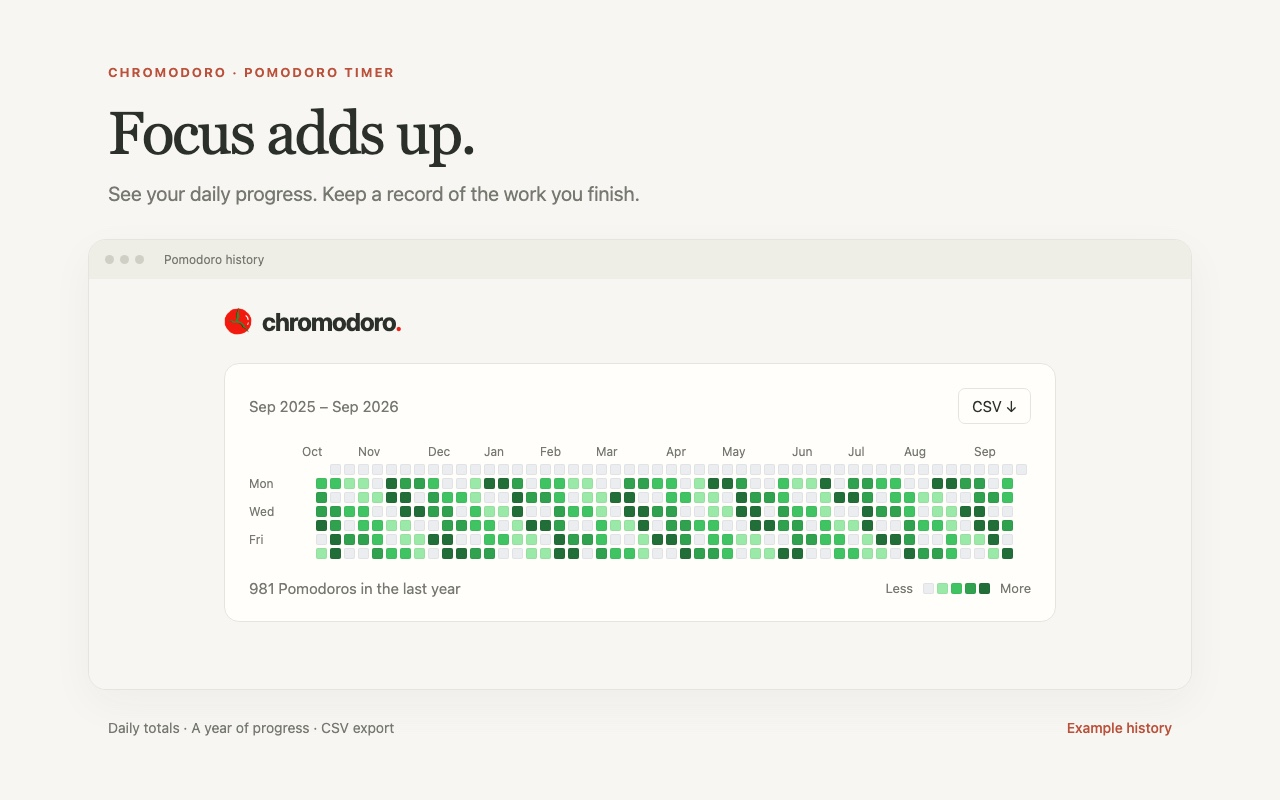
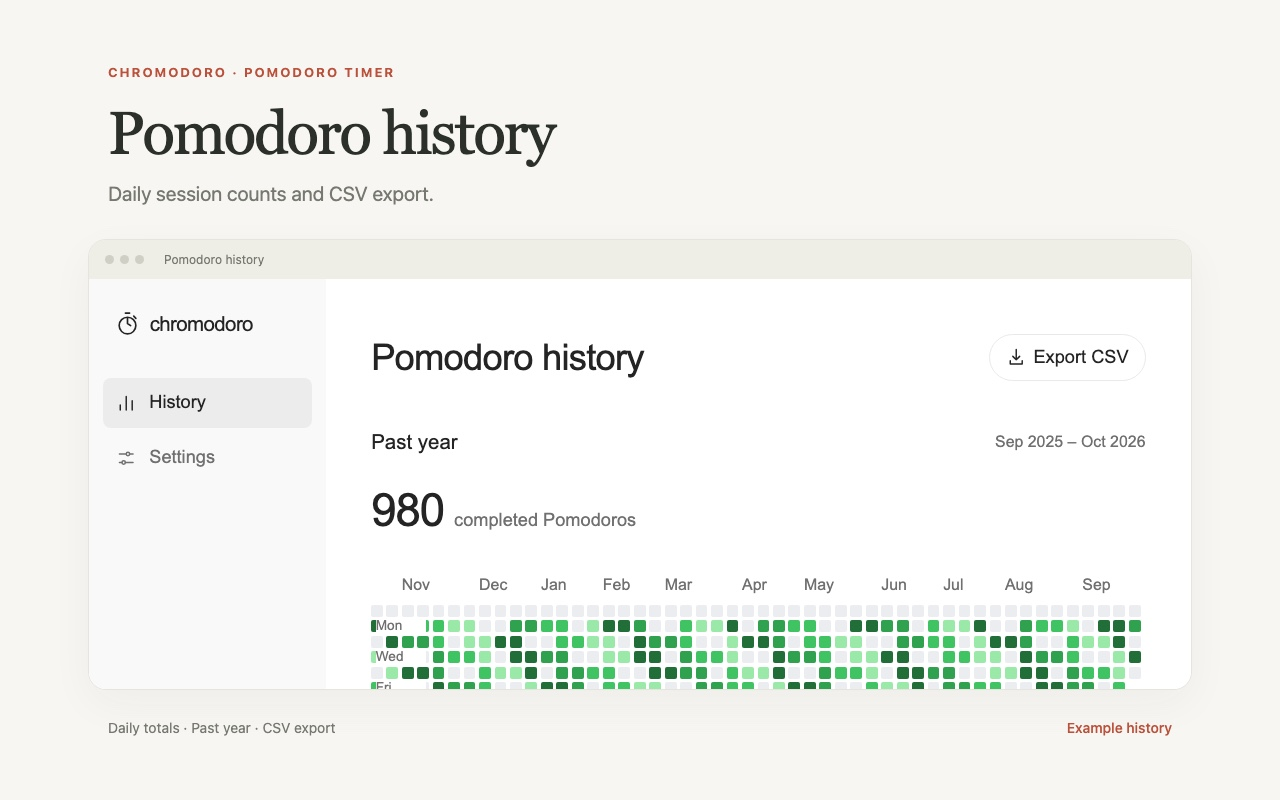
updated the pages to be more aesthetic.

diff --git a/styles.css b/styles.css
@@ -1,39 +1,129 @@
-:root{color-scheme:light;--bg:#f7f6f2;--paper:#fffefa;--text:#2c302b;--muted:#76796f;--line:#e6e5dd;--accent:#f21f15;--sq:11px;--l0:#ebedf0;--l1:#9be9a8;--l2:#40c463;--l3:#30a14e;--l4:#216e39;font-family:Inter,-apple-system,BlinkMacSystemFont,"Segoe UI",sans-serif;font-size:16px}
-*{box-sizing:border-box}body{margin:0;background:var(--bg);color:var(--text)}button,input{font:inherit}button{cursor:pointer}button:disabled{cursor:default;opacity:.48}button,input{outline-offset:4px}button:focus-visible,input:focus-visible{outline:2px solid var(--accent)}
-main{max-width:880px;margin:0 auto;padding:0 24px 48px}
-.header{display:flex;align-items:center;gap:10px;height:84px}
-.brand{font-weight:730;font-size:25px;letter-spacing:-1px}.brand-dot{color:var(--accent)}
-.card{background:var(--paper);border:1px solid var(--line);border-radius:15px;padding:24px;margin-bottom:16px}
-.card-top{display:flex;justify-content:space-between;align-items:center;gap:12px}
-.muted{color:var(--muted);font-size:15px}
-.small-button{border:1px solid var(--line);border-radius:7px;background:var(--paper);padding:8px 13px;font-size:15px;color:var(--text)}.small-button:hover{background:#f0f0e7}
-.heat-scroll{overflow-x:auto;overflow-y:hidden;margin-top:20px;padding-bottom:6px}
-.heat-months,.heat-grid{display:grid;grid-template-columns:36px repeat(53,var(--sq));gap:3px;width:max-content}
-.heat-months{margin-bottom:5px}
-.heat-months span{grid-row:1;font-size:12px;color:var(--muted);white-space:nowrap}
-.heat-grid{grid-template-rows:repeat(7,var(--sq))}
-.heat-row{display:contents}
-.heat-day{grid-column:1;position:sticky;left:0;z-index:1;background:var(--paper);padding-right:6px;font-size:12px;line-height:1;color:var(--muted);align-self:center}
-.sq{width:var(--sq);height:var(--sq);border-radius:2px;background:var(--l0);box-shadow:inset 0 0 0 1px #2c302b0d}
-.sq.l1{background:var(--l1)}.sq.l2{background:var(--l2)}.sq.l3{background:var(--l3)}.sq.l4{background:var(--l4)}
-.sq.pre{background:none;box-shadow:none}
-.sq[role]:hover{box-shadow:inset 0 0 0 1px #2c302b40}
-.sq:focus-visible{outline:2px solid var(--accent);outline-offset:2px}
-.heat-foot{display:flex;justify-content:space-between;align-items:center;gap:12px;margin-top:14px}
-.heat-legend{display:flex;align-items:center;gap:3px;font-size:13px;color:var(--muted)}
-.heat-legend i:first-of-type{margin-left:7px}.heat-legend i:last-of-type{margin-right:7px}
-.sync-card p{line-height:1.55;margin:12px 0 0}.sync-card strong{font-size:16px;font-weight:600}
-.settings-grid{display:grid;grid-template-columns:repeat(4,1fr);gap:12px}
-.settings-grid>label{font-size:15px;color:var(--muted)}
-.input-wrap{display:flex;align-items:center;border:1px solid var(--line);border-radius:7px;margin-top:9px;padding-right:9px;gap:4px}
-.input-wrap input{width:100%;min-width:0;background:transparent;border:0;padding:11px 0 11px 12px;color:var(--text);font-size:17px}
-.input-wrap>span{font-size:14px;color:var(--muted)}
-.settings-bottom{display:flex;align-items:center;justify-content:space-between;margin-top:20px;gap:14px}
-.settings-actions{display:flex;align-items:center;gap:12px}
-.alert-label{display:flex;align-items:center;flex-wrap:wrap;gap:18px;font-size:15px;color:var(--muted)}
-.checkbox{display:flex;align-items:center;gap:8px;font-size:16px;color:var(--text)}.checkbox input{accent-color:var(--accent);width:17px;height:17px;margin:0}
-.save{background:#343d31;color:white;border-color:#343d31;padding:10px 18px}.save:hover{background:#4e5c48}
-.save-status{font-size:15px;color:#39745d}
-#error{position:fixed;bottom:20px;left:50%;transform:translateX(-50%);background:#852e21;color:white;padding:12px 20px;border-radius:8px;max-width:90vw;box-shadow:0 5px 25px #0002}
-@media(max-width:700px){main{padding:0 16px 32px}.card{padding:18px}.settings-grid{grid-template-columns:repeat(2,1fr);gap:16px}.settings-bottom{align-items:flex-start;flex-direction:column}}
-@media(max-width:460px){.heat-card{--sq:10px}}
+:root {
+  color-scheme: only light;
+  --bg: #fff;
+  --sidebar: #f9f9f9;
+  --text: #242424;
+  --muted: #707070;
+  --line: #e9e9e9;
+  --hover: #ececec;
+  --sq: 11px;
+  --l0: #ebedf0;
+  --l1: #9be9a8;
+  --l2: #40c463;
+  --l3: #30a14e;
+  --l4: #216e39;
+  font-family: Arial, Helvetica, sans-serif;
+  font-size: 18px;
+  line-height: 1.5;
+}
+* { box-sizing: border-box; }
+[hidden] { display: none !important; }
+body { margin: 0; background: var(--bg); color: var(--text); font-size: 17px; }
+button, input { font: inherit; }
+button, summary { cursor: pointer; }
+button:disabled { cursor: default; opacity: .48; }
+a { color: inherit; }
+button, input, a, summary { outline-offset: 4px; }
+:focus-visible { outline: 2px solid var(--text); outline-offset: 4px; }
+h1, h2, p { margin: 0; }
+h1 { font-size: 2.25rem; line-height: 1.2; font-weight: 500; letter-spacing: -.8px; }
+h2 { font-size: 1.125rem; font-weight: 500; }
+svg { width: 1.125rem; height: 1.125rem; flex-shrink: 0; }
+.muted { color: var(--muted); }
+.small { font-size: inherit; }
+.skip-link { position: absolute; top: 12px; left: 12px; z-index: 5; padding: 10px 16px; background: var(--bg); border-radius: 8px; transform: translateY(-180%); }
+.skip-link:focus { transform: none; }
+.app-shell { display: grid; grid-template-columns: 13rem minmax(0, 1fr); min-height: 100vh; min-height: 100svh; }
+.sidebar { position: sticky; top: 0; height: 100vh; height: 100svh; padding: 1.625rem .75rem; display: flex; flex-direction: column; gap: 2.125rem; background: var(--sidebar); }
+.brand { display: flex; align-items: center; gap: 10px; padding: 0 12px; text-decoration: none; font-size: 1.125rem; font-weight: 500; letter-spacing: -.6px; }
+.brand-icon { width: 1.375rem; height: 1.375rem; }
+.page-nav { display: flex; flex-direction: column; gap: 5px; }
+.page-nav a { display: flex; align-items: center; gap: .6875rem; padding: .625rem .75rem; border-radius: 8px; text-decoration: none; color: var(--muted); }
+.page-nav a:hover, .page-nav a[aria-current="page"] { background: var(--hover); color: var(--text); }
+.page-content { width: 100%; max-width: 64rem; min-width: 0; margin: 0 auto; padding: 3rem 2.5rem 2.5rem; }
+.page-heading { display: flex; align-items: center; justify-content: space-between; gap: 20px; margin-bottom: 2.5rem; }
+.button { display: inline-flex; align-items: center; justify-content: center; gap: 7px; padding: .5rem .875rem; border: 1px solid var(--line); border-radius: 999px; color: var(--text); background: var(--bg); white-space: nowrap; }
+.button:hover { background: var(--sidebar); border-color: #d2d2d2; }
+.button.primary { background: var(--text); border-color: var(--text); color: #fff; padding: .5625rem 1.0625rem; font-weight: 500; }
+.button.primary:hover { background: #404040; }
+.section-heading { display: flex; align-items: center; justify-content: space-between; gap: 16px; flex-wrap: wrap; }
+.heat-card { container-type: inline-size; }
+.history-total { display: flex; align-items: baseline; flex-wrap: wrap; gap: 10px; margin: 24px 0 28px; }
+.total-value { font-size: 2.5rem; line-height: 1.3; letter-spacing: -1px; font-variant-numeric: tabular-nums; }
+.heat-scroll { --sq: clamp(.65rem, calc((100cqw - 13.85rem) / 53), 1.1rem); overflow-x: auto; padding: .25rem .25rem .5rem; }
+.heat-months, .heat-grid { display: grid; grid-template-columns: 2.75rem repeat(53, var(--sq)); gap: .2rem; width: max-content; }
+.heat-months { margin-bottom: 8px; }
+.heat-months span { grid-row: 1; font-size: .875rem; color: var(--muted); white-space: nowrap; }
+.heat-grid { grid-template-rows: repeat(7, var(--sq)); }
+.heat-row { display: contents; }
+.heat-day { grid-column: 1; position: sticky; left: 0; z-index: 1; background: var(--bg); padding-right: 6px; font-size: .75rem; line-height: 1; color: var(--muted); align-self: center; }
+.sq { width: var(--sq); height: var(--sq); border-radius: 2px; background: var(--l0); }
+.sq.l1 { background: var(--l1); }.sq.l2 { background: var(--l2); }.sq.l3 { background: var(--l3); }.sq.l4 { background: var(--l4); }
+.sq.pre { background: none; }
+.sq[role]:hover { outline: 1px solid #216e39; outline-offset: 1px; }
+.sq:focus-visible { outline-offset: 1px; }
+.heat-foot { display: flex; align-items: center; justify-content: flex-end; gap: 12px; flex-wrap: wrap; margin-top: 16px; color: var(--muted); }
+.heat-legend { display: flex; align-items: center; gap: .25rem; --sq: .65rem; }
+.heat-legend i:first-of-type { margin-left: 5px; }.heat-legend i:last-of-type { margin-right: 5px; }
+#heat-empty { margin-top: 16px; }
+.sync-section { margin-top: 48px; padding-top: 26px; border-top: 1px solid var(--line); }
+.sync-section > p { margin-top: 16px; }
+.sync-details { margin-top: 14px; color: var(--muted); }
+.sync-details summary { width: fit-content; }
+.sync-details p { margin-top: 12px; max-width: 43rem; }
+.settings-form { max-width: 43rem; }
+fieldset { border: 0; margin: 0; padding: 0; min-width: 0; }
+legend { font-size: 1.125rem; font-weight: 500; padding: 0; margin-bottom: 8px; }
+.setting-row { display: flex; align-items: center; justify-content: space-between; gap: 20px; padding: .875rem 0; border-bottom: 1px solid var(--line); }
+.setting-row:last-child { border-bottom: 0; }
+.input-wrap { display: flex; align-items: center; gap: 8px; flex-shrink: 0; }
+.input-wrap input { width: 4rem; min-width: 0; background: var(--bg); color: var(--text); border: 1px solid var(--line); border-radius: 8px; padding: .5rem .3125rem; text-align: center; font-variant-numeric: tabular-nums; appearance: textfield; }
+.input-wrap input::-webkit-inner-spin-button { appearance: none; }
+.input-wrap > span { width: 3.25rem; color: var(--muted); }
+.notification-settings { margin-top: 26px; }
+.toggle-row { cursor: pointer; min-height: 48px; }
+.toggle { appearance: none; margin: 0; width: 2.125rem; height: 1.25rem; flex-shrink: 0; border: 1px solid #b4b4b4; border-radius: 20px; background: #b4b4b4; position: relative; cursor: pointer; }
+.toggle::after { content: ''; position: absolute; width: .875rem; height: .875rem; border-radius: 50%; background: #fff; top: calc(.1875rem - 1px); left: calc(.1875rem - 1px); }
+.toggle:checked { background: var(--text); border-color: var(--text); }
+.toggle:checked::after { left: calc(1.0625rem - 1px); }
+.settings-actions { display: flex; align-items: center; justify-content: flex-end; gap: 12px; margin-top: 24px; }
+.save-status { color: var(--muted); }
+.privacy-link { margin-top: 34px; color: var(--muted); }
+.privacy-link a { text-underline-offset: 3px; }
+#error { position: fixed; bottom: 20px; left: 50%; transform: translateX(-50%); z-index: 10; background: #852e21; color: #fff; padding: 12px 20px; border-radius: 8px; width: max-content; max-width: calc(100% - 32px); overflow-wrap: anywhere; box-shadow: 0 5px 25px #0002; }
+/* The standalone privacy policy shares the neutral palette. */
+body > main { max-width: 880px; margin: 0 auto; padding: 0 24px 48px; }
+.header { display: flex; align-items: center; gap: 10px; height: 84px; }
+.header .brand { padding: 0; }
+.card { padding: 24px 0; }
+.card h1 { margin-bottom: 20px; }.card h2 { margin: 28px 0 12px; }.card p { margin: 14px 0; }
+@media (max-width: 800px) {
+  .app-shell { grid-template-columns: 12rem minmax(0, 1fr); }
+  .page-content { padding: 38px 26px; }
+  .page-heading { align-items: flex-start; flex-wrap: wrap; gap: 18px; margin-bottom: 34px; }
+}
+@media (max-width: 580px) {
+  :root { font-size: 16px; }
+  .app-shell { display: block; }
+  .sidebar { position: static; height: auto; padding: 20px; gap: 18px; }
+  .brand { padding: 0; }
+  .page-nav { flex-direction: row; }
+  .page-nav a { padding: 10px 14px; }
+  .page-content { padding: 30px 22px 36px; }
+  h1 { font-size: 2rem; }
+  .setting-row { gap: 12px; }
+  .input-wrap { gap: 5px; }
+  .input-wrap input { width: 48px; font-size: inherit; }
+  .input-wrap > span { width: auto; }
+  .sync-section { margin-top: 34px; }
+}
+@media (pointer: coarse) {
+  .button, .page-nav a, summary { min-height: 44px; }
+  .input-wrap input { font-size: inherit; }
+  .sync-details summary { padding-block: 10px; }
+}
+@media (forced-colors: active) {
+  .toggle { appearance: auto; }
+  .toggle::after { display: none; }
+  .sq:not(.pre) { outline: 1px solid CanvasText; }
+}

diff --git a/history.html b/history.html
@@ -3,29 +3,46 @@
 <head>
   <meta charset="UTF-8">
   <meta name="viewport" content="width=device-width, initial-scale=1">
-  <title>Pomodoro history</title>
+  <title>Pomodoro history · Chromodoro</title>
   <link rel="icon" type="image/png" sizes="32x32" href="icons/icon32.png">
   <link rel="stylesheet" href="styles.css">
   <script type="module" src="history.js"></script>
 </head>
 <body>
-  <main>
-    <header class="header"><img src="icons/icon48.png" width="28" height="28" alt=""><span class="brand">chromodoro<span class="brand-dot">.</span></span></header>
-    <section class="card heat-card">
-      <div class="card-top"><span id="heat-range" class="muted"></span><button id="export" class="small-button">CSV <span aria-hidden="true">↓</span></button></div>
-      <div class="heat-scroll" id="heat-scroll">
-        <div class="heat-months" id="heat-months" aria-hidden="true"></div>
-        <div class="heat-grid" id="heat-grid" role="grid" aria-label="Completed Pomodoros by day over the last year. Use the arrow keys to move between days."></div>
-      </div>
-      <div class="heat-foot"><span id="heat-total" class="muted"></span><span class="heat-legend" aria-hidden="true">Less<i class="sq"></i><i class="sq l1"></i><i class="sq l2"></i><i class="sq l3"></i><i class="sq l4"></i>More</span></div>
-    </section>
-    <section class="card sync-card" aria-label="History sync">
-      <div class="card-top"><strong>History across devices</strong><button id="sync-history" class="small-button">Check sync</button></div>
-      <p id="sync-status" class="muted" role="status">Preparing history for Chrome sync…</p>
-      <p class="muted">The most recent 24 calendar months are shared when Chrome Sync is enabled for extensions on the same Google account. Install the same Chromodoro extension on each device. Offline changes are shared after reconnecting; delivery may take time.</p>
-      <p class="muted">Older history stays on devices that have it and is included in CSV exports. Timers and settings stay independent on each device.</p>
-    </section>
-    <p id="error" role="alert" hidden></p>
-  </main>
+  <a class="skip-link" href="#main">Skip to content</a>
+  <div class="app-shell">
+    <aside class="sidebar">
+      <a class="brand" href="history.html" aria-label="Chromodoro home"><svg class="brand-icon" viewBox="0 0 24 24" fill="none" stroke="currentColor" stroke-width="1.6" stroke-linecap="round" stroke-linejoin="round" aria-hidden="true"><path d="M10 2h4M12 7v5l3 2M18 5l2 2"/><circle cx="12" cy="14" r="8"/></svg>chromodoro</a>
+      <nav class="page-nav" aria-label="Main navigation">
+        <a href="history.html" aria-current="page"><svg viewBox="0 0 24 24" fill="none" stroke="currentColor" stroke-width="1.7" stroke-linecap="round" aria-hidden="true"><path d="M5 20v-6M12 20V4M19 20V9"/></svg>History</a>
+        <a href="options.html"><svg viewBox="0 0 24 24" fill="none" stroke="currentColor" stroke-width="1.7" stroke-linecap="round" aria-hidden="true"><path d="M4 7h8m4 0h4M4 17h3m4 0h9"/><circle cx="14" cy="7" r="2"/><circle cx="9" cy="17" r="2"/></svg>Settings</a>
+      </nav>
+    </aside>
+    <main id="main" class="page-content">
+      <header class="page-heading">
+        <h1>Pomodoro history</h1>
+        <button id="export" class="button" type="button"><svg viewBox="0 0 24 24" fill="none" stroke="currentColor" stroke-width="1.7" stroke-linecap="round" stroke-linejoin="round" aria-hidden="true"><path d="M12 3v12m-4-4 4 4 4-4M5 16v4h14v-4"/></svg>Export CSV</button>
+      </header>
+      <section class="heat-card" aria-labelledby="history-heading">
+        <div class="section-heading"><h2 id="history-heading">Past year</h2><span id="heat-range" class="muted small"></span></div>
+        <p class="history-total"><span id="heat-total" class="total-value">0</span><span id="heat-total-label" class="muted">completed Pomodoros</span></p>
+        <div class="heat-scroll" id="heat-scroll">
+          <div class="heat-months" id="heat-months" aria-hidden="true"></div>
+          <div class="heat-grid" id="heat-grid" role="grid" aria-label="Completed Pomodoros by day over the last year. Use the arrow keys to move between days."></div>
+        </div>
+        <p id="heat-empty" class="muted" hidden>No completed sessions yet.</p>
+        <div class="heat-foot"><span class="heat-legend" aria-label="Green intensity increases with completed Pomodoros: 0, 1–2, 3–4, 5–6, 7 or more.">Less<i class="sq"></i><i class="sq l1"></i><i class="sq l2"></i><i class="sq l3"></i><i class="sq l4"></i>More</span></div>
+      </section>
+      <section class="sync-section" aria-labelledby="sync-heading">
+        <div class="section-heading"><h2 id="sync-heading">History across devices</h2><button id="sync-history" class="button" type="button">Check sync</button></div>
+        <p id="sync-status" class="muted" role="status">Preparing history for Chrome sync…</p>
+        <details class="sync-details"><summary>How history sync works</summary>
+          <p>The most recent 24 calendar months are shared when Chrome Sync is enabled for extensions on the same Google account. Install the same Chromodoro extension on each device. Offline changes are shared after reconnecting; delivery may take time.</p>
+          <p>Older history stays on devices that have it and is included in CSV exports. Timers and settings stay independent on each device.</p>
+        </details>
+      </section>
+      <p id="error" role="alert" hidden></p>
+    </main>
+  </div>
 </body>
 </html>

diff --git a/options.html b/options.html
@@ -3,30 +3,41 @@
 <head>
   <meta charset="UTF-8">
   <meta name="viewport" content="width=device-width, initial-scale=1">
-  <title>Chromodoro options</title>
+  <title>Settings · Chromodoro</title>
   <link rel="icon" type="image/png" sizes="32x32" href="icons/icon32.png">
   <link rel="stylesheet" href="styles.css">
   <script type="module" src="options.js"></script>
 </head>
 <body>
-  <main>
-    <header class="header"><img src="icons/icon48.png" width="28" height="28" alt=""><span class="brand">chromodoro<span class="brand-dot">.</span></span></header>
-    <section class="card">
-      <form id="settings-form">
-        <div class="settings-grid">
-          <label>Focus <span class="input-wrap"><input name="focus" type="number" min="1" max="180" required value="25"><span>min</span></span></label>
-          <label>Short break <span class="input-wrap"><input name="shortBreak" type="number" min="1" max="60" required value="5"><span>min</span></span></label>
-          <label>Long break <span class="input-wrap"><input name="longBreak" type="number" min="1" max="90" required value="15"><span>min</span></span></label>
-          <label>Long break every <span class="input-wrap"><input name="longEvery" type="number" min="1" max="12" required value="4"><span>sessions</span></span></label>
-        </div>
-        <div class="settings-bottom">
-          <span class="alert-label">When a session ends<label class="checkbox"><input type="checkbox" name="notify"> Notification</label><label class="checkbox"><input type="checkbox" name="newTab"> New tab</label></span>
-          <span class="settings-actions"><span id="save-status" role="status" class="save-status"></span><button type="submit" class="small-button save">Save</button></span>
-        </div>
+  <a class="skip-link" href="#main">Skip to content</a>
+  <div class="app-shell">
+    <aside class="sidebar">
+      <a class="brand" href="history.html" aria-label="Chromodoro home"><svg class="brand-icon" viewBox="0 0 24 24" fill="none" stroke="currentColor" stroke-width="1.6" stroke-linecap="round" stroke-linejoin="round" aria-hidden="true"><path d="M10 2h4M12 7v5l3 2M18 5l2 2"/><circle cx="12" cy="14" r="8"/></svg>chromodoro</a>
+      <nav class="page-nav" aria-label="Main navigation">
+        <a href="history.html"><svg viewBox="0 0 24 24" fill="none" stroke="currentColor" stroke-width="1.7" stroke-linecap="round" aria-hidden="true"><path d="M5 20v-6M12 20V4M19 20V9"/></svg>History</a>
+        <a href="options.html" aria-current="page"><svg viewBox="0 0 24 24" fill="none" stroke="currentColor" stroke-width="1.7" stroke-linecap="round" aria-hidden="true"><path d="M4 7h8m4 0h4M4 17h3m4 0h9"/><circle cx="14" cy="7" r="2"/><circle cx="9" cy="17" r="2"/></svg>Settings</a>
+      </nav>
+    </aside>
+    <main id="main" class="page-content">
+      <header class="page-heading"><h1>Settings</h1></header>
+      <form id="settings-form" class="settings-form">
+        <fieldset>
+          <legend>Session length</legend>
+          <div class="setting-row"><label for="focus">Focus</label><span class="input-wrap"><input id="focus" name="focus" type="number" min="1" max="180" required value="25" aria-describedby="focus-unit"><span id="focus-unit">min</span></span></div>
+          <div class="setting-row"><label for="short-break">Short break</label><span class="input-wrap"><input id="short-break" name="shortBreak" type="number" min="1" max="60" required value="5" aria-describedby="short-unit"><span id="short-unit">min</span></span></div>
+          <div class="setting-row"><label for="long-break">Long break</label><span class="input-wrap"><input id="long-break" name="longBreak" type="number" min="1" max="90" required value="15" aria-describedby="long-unit"><span id="long-unit">min</span></span></div>
+          <div class="setting-row"><label for="long-every">Long break every</label><span class="input-wrap"><input id="long-every" name="longEvery" type="number" min="1" max="12" required value="4" aria-describedby="every-unit"><span id="every-unit">sessions</span></span></div>
+        </fieldset>
+        <fieldset class="notification-settings">
+          <legend>When a session ends</legend>
+          <label class="setting-row toggle-row" for="notify"><span>Show a notification</span><input class="toggle" id="notify" name="notify" type="checkbox" role="switch"></label>
+          <label class="setting-row toggle-row" for="new-tab"><span>Open a new tab</span><input class="toggle" id="new-tab" name="newTab" type="checkbox" role="switch"></label>
+        </fieldset>
+        <div class="settings-actions"><span id="save-status" role="status" class="save-status"></span><button type="submit" class="button primary">Save changes</button></div>
       </form>
-    </section>
-    <p class="muted"><a href="privacy.html" target="_blank" rel="noopener noreferrer">Privacy policy</a></p>
-    <p id="error" role="alert" hidden></p>
-  </main>
+      <p class="privacy-link"><a href="privacy.html" target="_blank" rel="noopener noreferrer">Privacy policy</a></p>
+      <p id="error" role="alert" hidden></p>
+    </main>
+  </div>
 </body>
 </html>

diff --git a/store/history-screenshot.html b/store/history-screenshot.html
@@ -1,4 +1,4 @@
 <!doctype html>
 <html lang="en"><head><meta charset="utf-8"><title>Chromodoro history screenshot</title>
 <style>*{box-sizing:border-box}body{margin:0;width:1280px;height:800px;overflow:hidden;background:#f7f6f2;color:#2c302b;font-family:-apple-system,BlinkMacSystemFont,"Segoe UI",sans-serif}.intro{padding:64px 108px 34px}.eyebrow{font-size:13px;letter-spacing:2px;font-weight:650;color:#bb513b;text-transform:uppercase}h1{font-family:Georgia,serif;font-size:60px;line-height:1.05;letter-spacing:-2px;font-weight:400;margin:22px 0 17px}.intro p{font-size:20px;color:#76796f;margin:0}.window{margin:0 88px;background:#f7f6f2;border:1px solid #e6e5dd;border-radius:18px;overflow:hidden;box-shadow:0 14px 44px #2c302b0b}.bar{height:39px;background:#eeede6;display:flex;align-items:center;padding:0 16px;gap:6px}.dot{width:9px;height:9px;border-radius:50%;background:#d0cfc5}.label{font-size:12px;color:#76796f;margin-left:14px}iframe{display:block;width:100%;height:410px;border:0}.foot{margin:29px 108px;font-size:14px;color:#76796f;display:flex;justify-content:space-between}.foot strong{font-weight:500;color:#bb513b}</style></head>
-<body><div class="intro"><div class="eyebrow">Chromodoro · Pomodoro timer</div><h1>Focus adds up.</h1><p>See your daily progress. Keep a record of the work you finish.</p></div><div class="window"><div class="bar"><i class="dot"></i><i class="dot"></i><i class="dot"></i><span class="label">Pomodoro history</span></div><iframe src="../history.html" title="Actual Chromodoro history interface with example data"></iframe></div><div class="foot"><span>Daily totals · A year of progress · CSV export</span><strong>Example history</strong></div></body></html>
+<body><div class="intro"><div class="eyebrow">Chromodoro · Pomodoro timer</div><h1>Pomodoro history</h1><p>Daily session counts and CSV export.</p></div><div class="window"><div class="bar"><i class="dot"></i><i class="dot"></i><i class="dot"></i><span class="label">Pomodoro history</span></div><iframe src="../history.html" title="Actual Chromodoro history interface with example data"></iframe></div><div class="foot"><span>Daily totals · Past year · CSV export</span><strong>Example history</strong></div></body></html>

diff --git a/store/settings-screenshot.html b/store/settings-screenshot.html
@@ -1,4 +1,4 @@
 <!doctype html>
 <html lang="en"><head><meta charset="utf-8"><title>Chromodoro settings screenshot</title>
 <style>*{box-sizing:border-box}body{margin:0;width:1280px;height:800px;overflow:hidden;background:#f7f6f2;color:#2c302b;font-family:-apple-system,BlinkMacSystemFont,"Segoe UI",sans-serif}.intro{padding:64px 108px 34px}.eyebrow{font-size:13px;letter-spacing:2px;font-weight:650;color:#bb513b;text-transform:uppercase}h1{font-family:Georgia,serif;font-size:60px;line-height:1.05;letter-spacing:-2px;font-weight:400;margin:22px 0 17px}.intro p{font-size:20px;color:#76796f;margin:0}.window{margin:0 88px;background:#f7f6f2;border:1px solid #e6e5dd;border-radius:18px;overflow:hidden;box-shadow:0 14px 44px #2c302b0b}.bar{height:39px;background:#eeede6;display:flex;align-items:center;padding:0 16px;gap:6px}.dot{width:9px;height:9px;border-radius:50%;background:#d0cfc5}.label{font-size:12px;color:#76796f;margin-left:14px}iframe{display:block;width:100%;height:390px;border:0}.foot{margin:29px 108px;font-size:14px;color:#76796f;display:flex;justify-content:space-between}.foot strong{font-weight:500;color:#bb513b}</style></head>
-<body><div class="intro"><div class="eyebrow">Chromodoro · Pomodoro timer</div><h1>Make it your rhythm.</h1><p>Choose your focus, break, and alert settings.</p></div><div class="window"><div class="bar"><i class="dot"></i><i class="dot"></i><i class="dot"></i><span class="label">Chromodoro options</span></div><iframe src="../options.html" title="Actual Chromodoro settings interface"></iframe></div><div class="foot"><span>Flexible sessions · Simple alerts · Local history</span><strong>Settings</strong></div></body></html>
+<body><div class="intro"><div class="eyebrow">Chromodoro · Pomodoro timer</div><h1>Timer settings</h1><p>Set session lengths and completion alerts.</p></div><div class="window"><div class="bar"><i class="dot"></i><i class="dot"></i><i class="dot"></i><span class="label">Chromodoro options</span></div><iframe src="../options.html" title="Actual Chromodoro settings interface"></iframe></div><div class="foot"><span>Focus and break lengths · Alerts</span><strong>Settings</strong></div></body></html>

diff --git a/store/promo.html b/store/promo.html
@@ -1,13 +1,13 @@
 <!doctype html>
 <html lang="en"><head><meta charset="utf-8"><title>Chromodoro promotional tile</title>
 <style>body{margin:0;background:#f7f6f2}canvas{display:block}</style></head>
-<body><canvas width="440" height="280" role="img" aria-label="Chromodoro. Pomodoro timer. Make room for focus."></canvas><a id="download" download="promo-440x280.png">Download promotional tile</a>
+<body><canvas width="440" height="280" role="img" aria-label="Chromodoro. Focus and break timer."></canvas><a id="download" download="promo-440x280.png">Download promotional tile</a>
 <script>
 const canvas=document.querySelector('canvas'), context=canvas.getContext('2d');
 context.fillStyle='#bb513b';context.fillRect(0,0,440,280);
 context.fillStyle='#fffefa';context.font='700 25px -apple-system, BlinkMacSystemFont, sans-serif';context.fillText('chromodoro.',30,49);
 context.font='12px -apple-system, BlinkMacSystemFont, sans-serif';context.letterSpacing='2px';context.fillStyle='#f5dcd3';context.fillText('POMODORO TIMER',30,75);
-context.letterSpacing='-1.4px';context.fillStyle='#fffefa';context.font='41px Georgia, serif';context.fillText('Make room',30,144);context.fillText('for focus.',30,187);
+context.letterSpacing='-1.4px';context.fillStyle='#fffefa';context.font='41px Georgia, serif';context.fillText('Focus and',30,144);context.fillText('break timer.',30,187);
 context.beginPath();context.arc(358,196,55,0,Math.PI*2);context.fill();
 const logo=new Image();logo.onload=()=>{context.drawImage(logo,315,153,86,86);canvas.dataset.ready='true';document.getElementById('download').href=canvas.toDataURL('image/png');};logo.src='../icons/icon128.png';
 </script></body></html>

diff --git a/background.js b/background.js
@@ -60,7 +60,7 @@ async function announce(state, completion) {
     try {
       await chrome.notifications.create(`chromodoro-${completion.id}`, {
         type: 'basic', iconUrl: 'icons/icon128.png',
-        title: focus ? 'One Pomodoro, nicely done.' : 'Break complete. Ready when you are.',
+        title: focus ? 'Focus complete' : 'Break complete',
         message: focus ? 'Your focus session is saved. Click the Chromodoro icon to start your break.' : 'Click the Chromodoro icon to start your next focus session.'
       });
     } catch (error) { console.warn('Notification unavailable:', error); }

diff --git a/history.js b/history.js
@@ -111,7 +111,9 @@ function renderHeatmap() {
   // One tab stop, arrow keys inside. Keep wherever the user already is.
   const stop = anchor && !anchor.hasAttribute('aria-hidden') ? anchor : latest;
   if (stop) stop.tabIndex = 0;
-  $('heat-total').textContent = `${total} Pomodoro${total === 1 ? '' : 's'} in the last year`;
+  $('heat-total').textContent = total.toLocaleString();
+  $('heat-total-label').textContent = `completed Pomodoro${total === 1 ? '' : 's'}`;
+  $('heat-empty').hidden = Boolean(first);
 }
 
 $('heat-grid').addEventListener('keydown', event => {

diff --git a/alert.js b/alert.js
@@ -11,7 +11,7 @@ async function request(type) {
 function render(state) {
   const done = state.lastCompletion;
   const focus = done?.phase === 'focus';
-  $('headline').textContent = !done ? 'Ready when you are' : focus ? 'Focus complete' : 'Break over';
+  $('headline').textContent = !done ? 'Timer idle' : focus ? 'Focus complete' : 'Break complete';
   $('detail').textContent = done ? `${done.minutes} minutes` : '';
   const next = state.nextPhase;
   $('primary').textContent = `Start ${LABELS[next].toLowerCase()}`;

diff --git a/README.md b/README.md
@@ -27,7 +27,7 @@ No build, npm install, account, or server is needed. Keep the folder in place: C
 | Right-click → **Start break** | Start the break that is due now, replacing whatever is running |
 | Right-click → **Pomodoro history** | Open your heatmap, sync status, and CSV export |
 
-The timer lives entirely in the toolbar: the icon starts, pauses, and resumes, and the right-click menu jumps straight to focus or a break. History and settings are separate pages. **Pomodoro history** in the right-click menu opens the heatmap; Chrome’s own **Options** item in that menu, or **Details → Extension options** on Chrome’s extensions page, opens the settings.
+The timer lives entirely in the toolbar: the icon starts, pauses, and resumes, and the right-click menu jumps straight to focus or a break. History and settings share a light sidebar layout; use **History** and **Settings** to move between them. **Pomodoro history** in the right-click menu opens the green activity heatmap; Chrome’s own **Options** item in that menu, or **Details → Extension options** on Chrome’s extensions page, opens the settings.
 
 Defaults: **25-minute focus**, **5-minute short break**, **15-minute long break after every 4 completed focus sessions**. Every session starts manually. Finishing focus queues the next break; finishing a break queues focus. **Start focusing** and **Start break** start that session immediately and replace whatever is running, which also makes them the way to abandon a session: an interrupted focus session is not recorded. **Start break** takes the long break when one is owed and a short one otherwise. Skipping or cutting sessions short does not disturb the long break owed after every fourth completed focus session. Settings affect future sessions; an already running or paused session keeps its duration.
 
@@ -41,7 +41,7 @@ Defaults: **25-minute focus**, **5-minute short break**, **15-minute long break 
 - Running timers use elapsed wall-clock time, including time while Chrome is closed or the computer is asleep. Pause before stepping away if you do not want that time to count. A paused timer stays paused across restarts.
 - Chrome alarms wake the timer and refresh the badge about every 30 seconds. Chrome may delay badge updates and notifications during sleep or resource throttling. The next wake reconciles the saved deadline and records at most one completion; it never auto-starts more sessions while you are away.
 - A session is assigned to the local calendar date of its scheduled completion, using the computer’s timezone when completion is processed. Historical date keys do not move if you later change timezones.
-- When a session ends, Chromodoro can show a system notification, open a full-page tab, both, or neither. The two checkboxes under **When a session ends** are independent, so you can pick any combination. Both are on by default, so a finished session is hard to miss; turn either off if it is too much.
+- When a session ends, Chromodoro can show a system notification, open a full-page tab, both, or neither. The two switches under **When a session ends** are independent, so you can pick any combination. Both are on by default, so a finished session is hard to miss; turn either off if it is too much.
 - The tab shows what finished and offers to start the next session or skip straight to focus. It closes itself as soon as a session starts anywhere, including from the toolbar, so alerts never pile up as stray tabs.
 - Notifications respect your Chrome and operating-system notification settings; if macOS has notifications turned off for Chrome, nothing appears. The new tab does not depend on those settings, which makes it the reliable option. Click a notification to open your history.
 

diff --git a/store/listing.md b/store/listing.md
@@ -15,16 +15,16 @@ One-click focus timer, remaining minutes on your toolbar, and private daily Pomo
 ## Detailed description
 Start a focus session with one click. Chromodoro keeps the remaining minutes on your Chrome toolbar, so you can focus without keeping a timer tab open.
 
-Click the icon to start, pause, or resume. Right-click to start focusing, take a break, or view your Pomodoro history. A quiet gray icon shows when the timer is idle.
+Click the icon to start, pause, or resume. Right-click to start focusing, take a break, or view your Pomodoro history. The icon is gray when the timer is idle.
 
-MAKE TIME TO FOCUS
+TIMER AND BREAKS
 • Adjustable focus, short-break, and long-break durations.
 • A long break after your chosen number of completed focus sessions.
 • Optional system notifications and a completion tab, independently configurable.
 • Paused timers survive browser restarts. Running timers use elapsed time, including time while your computer sleeps.
 • Each new session starts when you choose. Unfinished focus sessions and breaks do not count toward your history.
 
-SEE YOUR PROGRESS
+HISTORY
 • A year-long heatmap of completed Pomodoros.
 • Daily Pomodoro counts and focus-minute totals.
 • CSV export of all recorded days.
@@ -51,7 +51,7 @@ English
 | Completion screenshot | 1280×800 JPEG | `store/assets/completion-1280x800.jpg` |
 | Small promotional tile | 440×280 PNG | `store/assets/promo-440x280.png` |
 
-The history screenshot shows labeled example data from the earlier history page; refresh it to include the new sync card before store submission. The settings screenshot was refreshed against the current UI on September 28, 2026. The idle and paused toolbar icon uses a lighter gray for visibility on dark toolbars; the screenshots do not show the Chrome toolbar.
+The history and settings screenshots show the current UI with example data. The idle and paused toolbar icon uses a lighter gray for visibility on dark toolbars; the screenshots do not show the Chrome toolbar.
 
 ## URLs
 Homepage: leave blank until a Chromodoro-owned site or repository is available.
